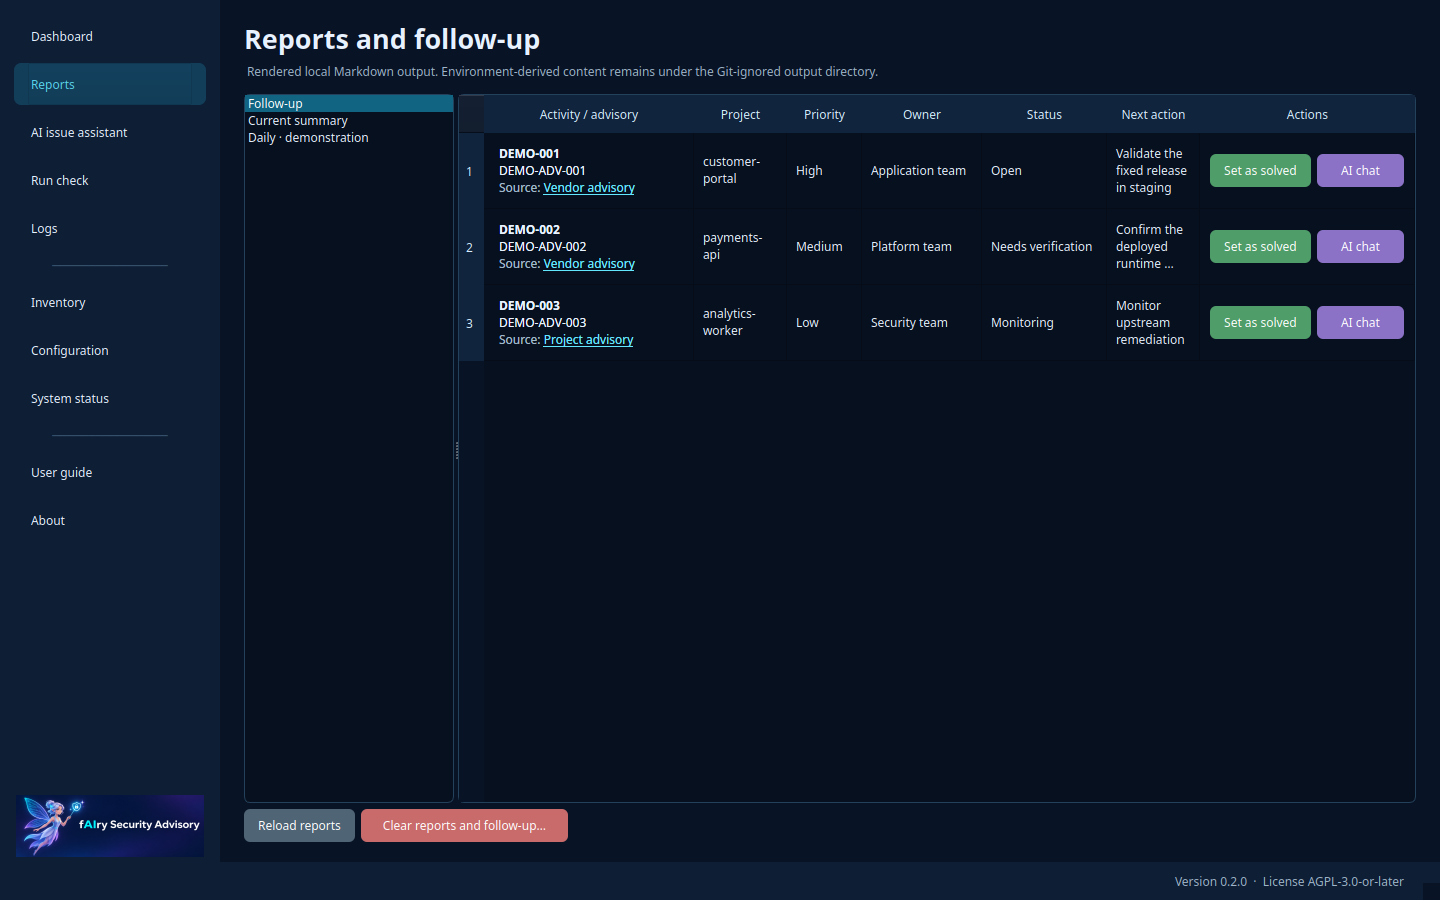
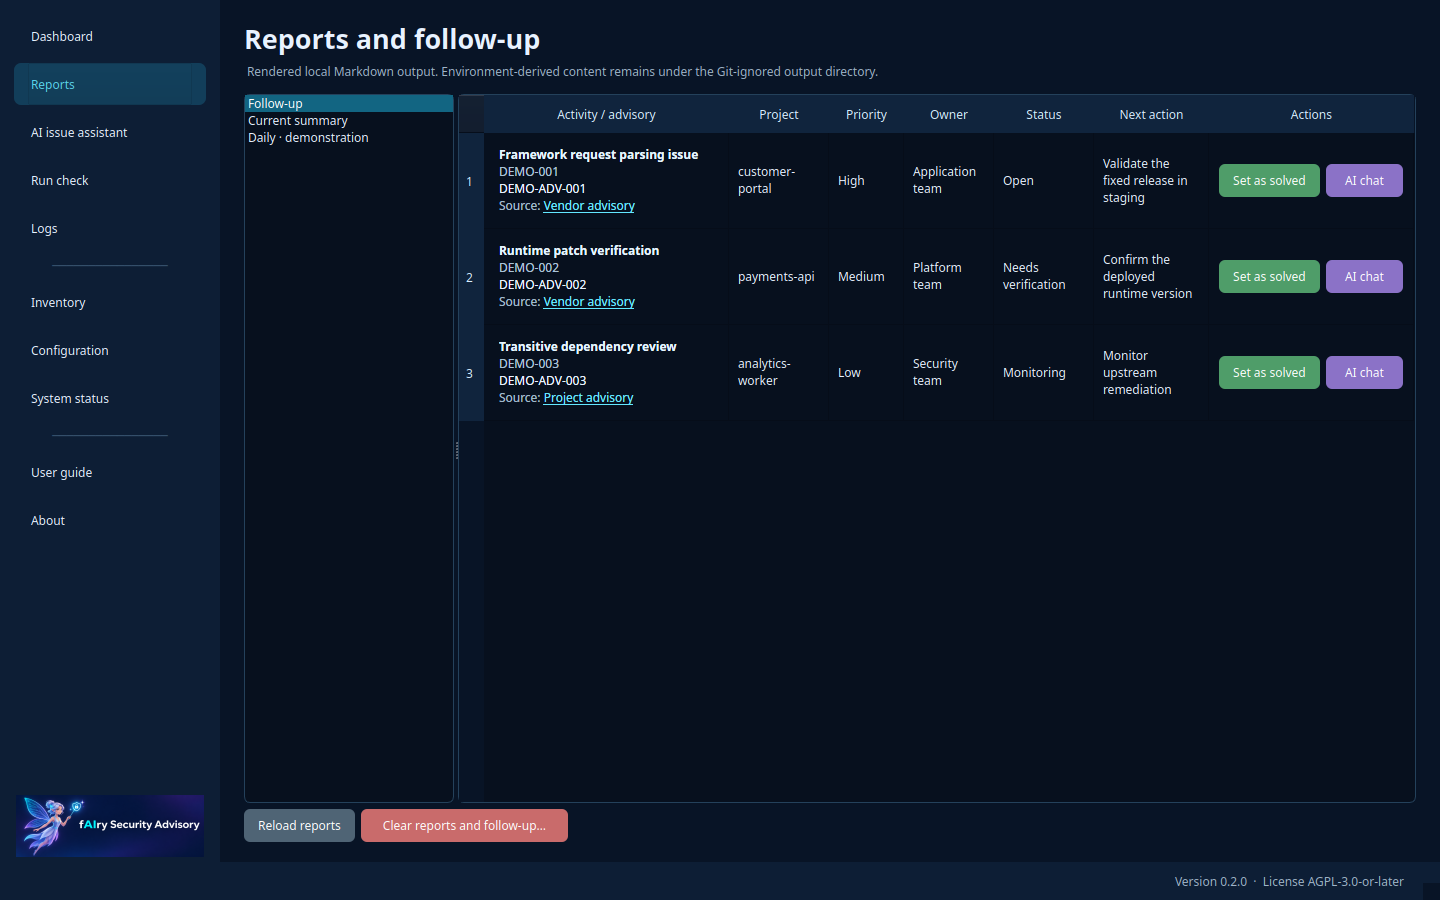
Finalize 0.2.0 desktop reports and check views

diff --git a/desktop/main_window.py b/desktop/main_window.py
@@ -875,13 +875,11 @@ class MainWindow(QMainWindow):
         ))
         self.followup_table.setEditTriggers(QAbstractItemView.EditTrigger.NoEditTriggers)
         self.followup_table.setSelectionBehavior(QAbstractItemView.SelectionBehavior.SelectRows)
-        self.followup_table.verticalHeader().setDefaultSectionSize(76)
+        self.followup_table.verticalHeader().setDefaultSectionSize(96)
         self.followup_table.horizontalHeader().setMinimumHeight(38)
-        for column in (1, 5):
-            self.followup_table.horizontalHeader().setSectionResizeMode(
-                column, QHeaderView.ResizeMode.Stretch,
-            )
-        for column, width in ((0, 210), (2, 75), (3, 120), (4, 125), (6, 215)):
+        for column, width in (
+            (0, 245), (1, 100), (2, 75), (3, 90), (4, 100), (5, 115), (6, 205),
+        ):
             self.followup_table.horizontalHeader().setSectionResizeMode(
                 column, QHeaderView.ResizeMode.Fixed,
             )
@@ -1121,10 +1119,15 @@ class MainWindow(QMainWindow):
         buttons.addStretch()
         layout.addLayout(buttons)
 
+        self.run_tabs = QTabWidget()
+        activity_page = QWidget()
+        activity_page_layout = QVBoxLayout(activity_page)
+        activity_page_layout.setContentsMargins(8, 10, 8, 8)
+        activity_page_layout.setSpacing(8)
         self.run_journey = RunJourneyWidget(
             services.ROOT / "desktop/assets/fairy-security-advisory-icon.png"
         )
-        layout.addWidget(self.run_journey, 2)
+        activity_page_layout.addWidget(self.run_journey, 1)
 
         activity = QFrame()
         activity.setObjectName("card")
@@ -1147,14 +1150,14 @@ class MainWindow(QMainWindow):
         self.analysis_elapsed_label.setMinimumWidth(92)
         self.analysis_elapsed_label.setAlignment(Qt.AlignmentFlag.AlignRight)
         activity_layout.addWidget(self.analysis_elapsed_label)
-        layout.addWidget(activity)
+        activity_page_layout.addWidget(activity)
+        self.run_tabs.addTab(activity_page, "Activity")
 
-        log_card = QFrame()
-        log_card.setObjectName("card")
-        log_layout = QVBoxLayout(log_card)
-        log_layout.setContentsMargins(14, 10, 14, 12)
+        log_page = QWidget()
+        log_layout = QVBoxLayout(log_page)
+        log_layout.setContentsMargins(8, 10, 8, 8)
         log_header = QHBoxLayout()
-        log_header.addWidget(QLabel("Detailed log"))
+        log_header.addWidget(QLabel("Process output"))
         log_header.addStretch()
         clear = QPushButton("Clear log")
         clear.setProperty("variant", "secondary")
@@ -1166,7 +1169,8 @@ class MainWindow(QMainWindow):
         self.log.setLineWrapMode(QPlainTextEdit.LineWrapMode.NoWrap)
         self.log.setPlaceholderText("Process output will appear here.")
         log_layout.addWidget(self.log, 1)
-        layout.addWidget(log_card, 1)
+        self.run_tabs.addTab(log_page, "Detailed log")
+        layout.addWidget(self.run_tabs, 1)
         return page
 
     def _status_page(self) -> QWidget:
@@ -1854,7 +1858,7 @@ class MainWindow(QMainWindow):
         open_ids = {item.get("ID") for item in services.open_followup_activities(path)}
         for row, activity in enumerate(activities):
             advisory = activity.get("Advisory / CVE", "")
-            first_advisory = advisory.split(";", 1)[0]
+            issue_title = activity.get("Issue title", "").strip()
             source_links = services.followup_source_links(activity)
             source_html = ""
             if source_links:
@@ -1869,9 +1873,14 @@ class MainWindow(QMainWindow):
                     )
                 rendered_links = " · ".join(rendered)
                 source_html = f'<br><span style="color:#9fb8cc;">Source: {rendered_links}</span>'
+            title_html = (
+                f'<b style="color:#e5f5ff;">{html.escape(issue_title)}</b><br>'
+                if issue_title else ""
+            )
             activity_label = QLabel(
-                f"<b>{html.escape(activity.get('ID', ''))}</b><br>"
-                f"{html.escape(first_advisory)}{source_html}"
+                f"{title_html}"
+                f'<span style="color:#a9c3d8;">{html.escape(activity.get("ID", ""))}</span><br>'
+                f"{html.escape(advisory)}{source_html}"
             )
             activity_label.setStyleSheet("background: transparent; padding: 5px 6px;")
             activity_label.setTextFormat(Qt.TextFormat.RichText)
@@ -1879,7 +1888,8 @@ class MainWindow(QMainWindow):
             activity_label.setOpenExternalLinks(True)
             activity_label.setWordWrap(True)
             activity_label.setToolTip(
-                advisory + ("\n" + "\n".join(url for _label, url in source_links) if source_links else "")
+                (issue_title + "\n" if issue_title else "") + advisory
+                + ("\n" + "\n".join(url for _label, url in source_links) if source_links else "")
             )
             self.followup_table.setCellWidget(row, 0, activity_label)
             values = (
@@ -2002,6 +2012,7 @@ class MainWindow(QMainWindow):
         for issue in services.open_followup_activities():
             label = (
                 f"{issue.get('Project', 'unknown')}  |  {issue.get('ID', 'unknown')}  |  "
+                f"{issue.get('Issue title') or issue.get('Advisory / CVE', 'unknown')}  |  "
                 f"{issue.get('Priority', 'unknown')}  |  {issue.get('Status', 'unknown')}"
             )
             self.assistant_issue_combo.addItem(label, issue)
@@ -2035,9 +2046,15 @@ class MainWindow(QMainWindow):
             "critical": "#df7f7f", "high": "#e5bb62", "medium": "#9fd3e5",
             "low": "#8fd3a4",
         }.get(priority.casefold(), "#c9dded")
+        issue_title_html = (
+            f'<span style="color:#7890a8;">ISSUE</span> '
+            f'<b>{html.escape(str(issue["Issue title"]))}</b><br>'
+            if issue.get("Issue title") else ""
+        )
         self.assistant_issue_details.setText(
             f'<span style="color:#7890a8;">ACTIVITY</span> '
             f'<b>{html.escape(str(issue.get("ID") or "Unknown"))}</b><br>'
+            f'{issue_title_html}'
             f'<span style="color:#7890a8;">ADVISORY</span> '
             f'<b>{html.escape(str(issue.get("Advisory / CVE") or "Unknown"))}</b><br>'
             f'<span style="color:{priority_color};"><b>{priority}</b></span> priority &nbsp;·&nbsp; '
@@ -2580,6 +2597,7 @@ class MainWindow(QMainWindow):
             assume_yes=assume_yes, non_interactive=non_interactive,
         )
         self._navigate_to_page(PAGE_RUN)
+        self.run_tabs.setCurrentIndex(0)
         self.log.appendPlainText(f"\n$ {shlex.join(command)}\n")
         self.current_action = action
         self.process_output_buffer = ""

diff --git a/tests/test_desktop_ui.py b/tests/test_desktop_ui.py
@@ -16,12 +16,13 @@ try:
     from desktop import services
     from desktop.eula_dialog import EulaDialog
     from desktop.inventory_technologies_dialog import InventoryTechnologiesDialog
-    from desktop.main_window import BarChartCard, MainWindow
+    from desktop.main_window import BarChartCard, MainWindow, PAGE_RUN
     from desktop.run_visualization import RunJourneyWidget
 except ImportError:
     QApplication = None
     BarChartCard = None
     MainWindow = None
+    PAGE_RUN = None
     QLabel = None
     QPushButton = None
     QUrl = None
@@ -102,6 +103,33 @@ class DesktopWindowTest(unittest.TestCase):
         self.assertIn("completed", window.analysis_activity_label.text().casefold())
         self.assertEqual(window.run_journey.state, "completed")
         self.assertFalse(window.run_journey.timer.isActive())
+        window.close()
+        window.deleteLater()
+        application.processEvents()
+
+    def test_run_check_log_tab_uses_page_height_and_keeps_activity_running(self) -> None:
+        application = QApplication.instance() or QApplication([])
+        window = MainWindow()
+        window.resize(980, 680)
+        window.show()
+        window._navigate_to_page(PAGE_RUN)
+        window.run_tabs.setCurrentIndex(1)
+        application.processEvents()
+
+        self.assertEqual(
+            [window.run_tabs.tabText(index) for index in range(window.run_tabs.count())],
+            ["Activity", "Detailed log"],
+        )
+        self.assertGreater(window.log.height(), 250)
+        window.run_journey.start("ai-check")
+        window._handle_analysis_progress({
+            "phase": "consolidation", "status": "running", "provider": "codex",
+            "completed": 1, "total": 2, "message": "Consolidating evidence",
+        })
+        self.assertEqual(window.run_tabs.currentIndex(), 1)
+        self.assertEqual(window.run_journey.phase, "consolidation")
+        self.assertTrue(window.run_journey.timer.isActive())
+        window.run_journey.finish(True)
         window.close()
         window.deleteLater()
         application.processEvents()
@@ -662,6 +690,16 @@ class DesktopWindowTest(unittest.TestCase):
             self.assertEqual(open_buttons[0].property("variant"), "success")
             self.assertEqual(open_buttons[1].property("variant"), "ai")
             self.assertTrue(all(not button.isEnabled() for button in closed_buttons))
+            followup.write_text(
+                "| ID | Issue title | Advisory / CVE | Project | Description | Priority | Owner | Status | Opened | Last updated | Next action | Due date | Completion evidence | Source URL |\n"
+                "|---|---|---|---|---|---|---|---|---|---|---|---|---|---|\n"
+                "| A-1 | PHP2Shell in PHP runtime | CVE-2026-1234 | api | Patch | High | Dev | Open | 2026-11-01 | 2026-11-01 | Upgrade | — | — | https://example.com/advisory |\n",
+                encoding="utf-8",
+            )
+            window.load_followup_table(followup)
+            self.assertIn("PHP2Shell in PHP runtime", window.followup_table.cellWidget(0, 0).text())
+            self.assertIn("CVE-2026-1234", window.followup_table.cellWidget(0, 0).text())
+            self.assertIn("https://example.com/advisory", window.followup_table.cellWidget(0, 0).text())
         window.close()
         window.deleteLater()
         application.processEvents()
@@ -672,6 +710,7 @@ class DesktopWindowTest(unittest.TestCase):
         issue = {
             "ID": "ADV-DEMO-001",
             "Project": "payments-api",
+            "Issue title": "Runtime advisory affecting payments API",
             "Advisory / CVE": "CVE-2026-1234",
             "Priority": "High",
             "Status": "Open",
@@ -687,6 +726,7 @@ class DesktopWindowTest(unittest.TestCase):
         self.assertEqual(window.assistant_project_label.text(), "payments-api")
         self.assertGreaterEqual(window.assistant_project_label.font().pointSize(), 18)
         self.assertIn("ADV-DEMO-001", window.assistant_issue_details.text())
+        self.assertIn("Runtime advisory affecting payments API", window.assistant_issue_details.text())
         self.assertIn("CVE-2026-1234", window.assistant_issue_details.text())
         self.assertTrue(window.assistant_issue_details.textInteractionFlags())
         window.close()

diff --git a/scripts/render_public_screenshots.py b/scripts/render_public_screenshots.py
@@ -30,11 +30,11 @@ ASSETS = ROOT / "docs/assets"
 def demo_followup() -> str:
     return (
         "# Follow-up\n\n"
-        "| ID | Advisory / CVE | Project | Description | Priority | Owner | Status | Opened | Last updated | Next action | Due date | Completion evidence | Source URL |\n"
-        "|---|---|---|---|---|---|---|---|---|---|---|---|---|\n"
-        "| DEMO-001 | DEMO-ADV-001 | customer-portal | Example framework update | High | Application team | Open | 2026-11-16 | 2026-11-16 | Validate the fixed release in staging | 2026-11-20 | — | [Vendor advisory](https://example.com/security/advisories/demo-001) |\n"
-        "| DEMO-002 | DEMO-ADV-002 | payments-api | Example runtime advisory | Medium | Platform team | Needs verification | 2026-11-16 | 2026-11-16 | Confirm the deployed runtime version | — | — | [Vendor advisory](https://example.com/security/advisories/demo-002) |\n"
-        "| DEMO-003 | DEMO-ADV-003 | analytics-worker | Example transitive dependency | Low | Security team | Monitoring | 2026-11-15 | 2026-11-16 | Monitor upstream remediation | — | — | [Project advisory](https://example.com/security/advisories/demo-003) |\n"
+        "| ID | Issue title | Advisory / CVE | Project | Description | Priority | Owner | Status | Opened | Last updated | Next action | Due date | Completion evidence | Source URL |\n"
+        "|---|---|---|---|---|---|---|---|---|---|---|---|---|---|---|\n"
+        "| DEMO-001 | Framework request parsing issue | DEMO-ADV-001 | customer-portal | Example framework update | High | Application team | Open | 2026-11-16 | 2026-11-16 | Validate the fixed release in staging | 2026-11-20 | — | [Vendor advisory](https://example.com/security/advisories/demo-001) |\n"
+        "| DEMO-002 | Runtime patch verification | DEMO-ADV-002 | payments-api | Example runtime advisory | Medium | Platform team | Needs verification | 2026-11-16 | 2026-11-16 | Confirm the deployed runtime version | — | — | [Vendor advisory](https://example.com/security/advisories/demo-002) |\n"
+        "| DEMO-003 | Transitive dependency review | DEMO-ADV-003 | analytics-worker | Example transitive dependency | Low | Security team | Monitoring | 2026-11-15 | 2026-11-16 | Monitor upstream remediation | — | — | [Project advisory](https://example.com/security/advisories/demo-003) |\n"
     )
 
 

diff --git a/docs/gui-user-guide.md b/docs/gui-user-guide.md
@@ -391,13 +391,16 @@ files while an analysis or AI conversation is running.
 
 ### Active follow-up
 
-The active table shows one stable activity per row. Important columns include
-the issue identifier, advisory or CVE, affected project, description, priority,
+The active table shows one stable activity per row. Important fields include
+the searchable issue title, stable identifier, advisory or CVE, affected
+project, description, priority,
 owner, state, dates, next action, deadline, and completion evidence. Hover over
 shortened cells to read their full value.
 
-The activity/advisory cell includes the configured primary-source link below
-the identifier. When no source URL is recorded, recognized CVE identifiers link
+The activity/advisory cell puts the issue title first, followed by its stable
+ID, advisory/CVE identifiers, and configured primary-source links. Use the
+title as a search phrase and the linked advisory to verify the details. When
+no source URL is recorded, recognized CVE identifiers link
 to their official CVE records. Opening a link launches the system browser and
 does not change the activity.
 
@@ -483,7 +486,8 @@ The Run security checks page contains deterministic preparation commands and
 the complete AI-assisted workflow. Choose an AI provider, model profile, and
 execution mode before starting the full analysis.
 
-The prominent **fAIry at work** panel shows advisory sources and local projects
+The **Activity** tab opens with the prominent **fAIry at work** panel. It shows
+advisory sources and local projects
 flowing toward the fairy, then matching and reporting. Highlighted paths and
 sparkles follow the current operation: source checks light the advisory path,
 inventory refresh lights the project path, and a complete AI analysis changes
@@ -494,9 +498,10 @@ and sends a sparkle trail to the matching stage. The animation illustrates the
 workflow; it is not a live network map or
 a percentage of files scanned. The phase, provider, elapsed time, and project
 count come from actual process events. Project counts advance at provider group
-boundaries. The **Detailed log** below the animation retains the process output
-and is the place to read errors and evidence; **Clear log** only clears that
-on-screen view.
+boundaries. Switch to the separate **Detailed log** tab to give process output
+the full page area while analysis continues. It is the place to read errors
+and evidence; **Clear log** only clears that on-screen view. You can return to
+**Activity** at any time without interrupting the check.
 
 ### Check prerequisites
 

diff --git a/.agents/skills/fairy-security-advisory/references/report-format.md b/.agents/skills/fairy-security-advisory/references/report-format.md
@@ -13,12 +13,19 @@ Use these sections, adapting them without removing historical evidence:
 3. `Projects and technologies involved`: only relevant items, with non-sensitive paths or identifiers.
 4. `Relevant advisories`: risk, CVE/advisory, affected/fixed versions, prerequisites, evidence, applicability, decision, and confidence.
 5. `Excluded advisories`: identifier and verifiable rationale.
-6. `Open follow-up activities`: ID, project, priority, status, and next action for every unfinished activity.
+6. `Open follow-up activities`: ID, issue title, project, priority, status, and next action for every unfinished activity.
 7. `Recommended actions`: owner and urgency, without applying changes.
 8. `Limitations and residual risk`: unverified production, missing sources/tools, and declared-versus-installed version gaps.
 9. `Changes made`: normally reports, summary, follow-up, and local inventory only.
 
 Cite sources close to supported claims. Do not copy long passages.
+Give each finding and follow-up activity a concise, searchable `Issue title`
+that names the affected component and the security problem. Include a
+well-established public advisory name, such as PHP2Shell, only when a source
+uses it; otherwise use a descriptive title without presenting it as an official
+name. Keep CVE/advisory IDs and primary-source links in separate fields so
+users can verify the issue by title or identifier. The title never replaces
+the IDs or evidence.
 For routed checks, include one line ``- Project: `<id>` — ...`` under the newest
 `Projects and technologies involved` heading for **every** selected project,
 including other-provider dossier projects and projects with no confirmed
@@ -32,7 +39,8 @@ with one subsection per date and a report link. Do not duplicate the full report
 
 ## Follow-up
 
-The `output/followup.md` table contains at least: stable ID, Advisory / CVE, Project,
+The `output/followup.md` table contains at least: stable ID, Issue title,
+Advisory / CVE, Project,
 Description, Priority, Owner, Status, Opened, Last updated, Next action, Due date,
 and Completion evidence. Add the optional `Source URL` column when a primary
 advisory URL is known. Use either a raw HTTPS URL or a Markdown link such as

diff --git a/README.md b/README.md
@@ -199,7 +199,7 @@ The desktop application provides:
   optional Codex/Claude preference, and manual additions for technologies
   missed by the scanner;
 - rendered daily reports and summary, plus an interactive follow-up table with
-  primary-source links for advisories and CVEs;
+  searchable issue titles, advisory/CVE identifiers, and primary-source links;
 - a local year/month analysis-log archive with summary, event, routing, AI
   output, evidence viewing, and confirmed per-run deletion;
 - an AI issue assistant linked to one open follow-up ID and project at a time;
@@ -229,7 +229,7 @@ at the beginning or end. **Back to top** returns to the contents section.
 The desktop **AI issue assistant** page supports operational conversations
 about an existing open follow-up. Select an issue before asking for advice,
 reporting ownership, recording remediation evidence, or explaining why an
-advisory is not applicable. The selected ID, project, CVE/advisory, priority,
+advisory is not applicable. The selected ID, issue title, project, CVE/advisory, priority,
 owner, status, and next action are provided as context to the chosen Codex or
 Claude model/profile.
 
@@ -566,9 +566,10 @@ boundary cannot be created. fAIry never switches Codex to
 `danger-full-access` or Claude to bypass-permissions mode.
 
 While an analysis is running, the desktop footer remains visible on every page
-and identifies the active provider and phase. The Run check page also shows
-the animated fAIry workflow, a separate detailed process log, elapsed time,
-and completed projects. The animation follows real phase events but illustrates
+and identifies the active provider and phase. The Run check Activity tab shows
+the animated fAIry workflow, elapsed time, and completed projects. The separate
+Detailed log tab gives process output the full available height. The animation
+follows real phase events but illustrates
 the workflow rather than measuring individual file or network requests.
 Progress advances only at verified
 provider-group boundaries because Codex and Claude do not expose a dependable

diff --git a/CHANGELOG.md b/CHANGELOG.md
@@ -7,7 +7,7 @@ and the project intends to use [Semantic Versioning](https://semver.org/).
 
 ## [Unreleased]
 
-## [0.2.0] - 2026-11-16
+## [0.2.0] - 2026-11-17
 
 ### Added
 
@@ -27,6 +27,10 @@ and the project intends to use [Semantic Versioning](https://semver.org/).
 
 ### Changed
 
+- Follow-up activities now show a descriptive, searchable issue title in Reports
+  and AI issue assistant, alongside identifiers and source links.
+- Run check now separates the animated Activity view and full-height Detailed
+  log into tabs; switching tabs does not interrupt an active analysis.
 - Clear reports now leaves a manual reset snapshot that subsequent AI checks
   ignore; new reports and follow-up are rebuilt from current evidence only.
 - The Run check fairy now faces incoming sources and projects, turns toward
